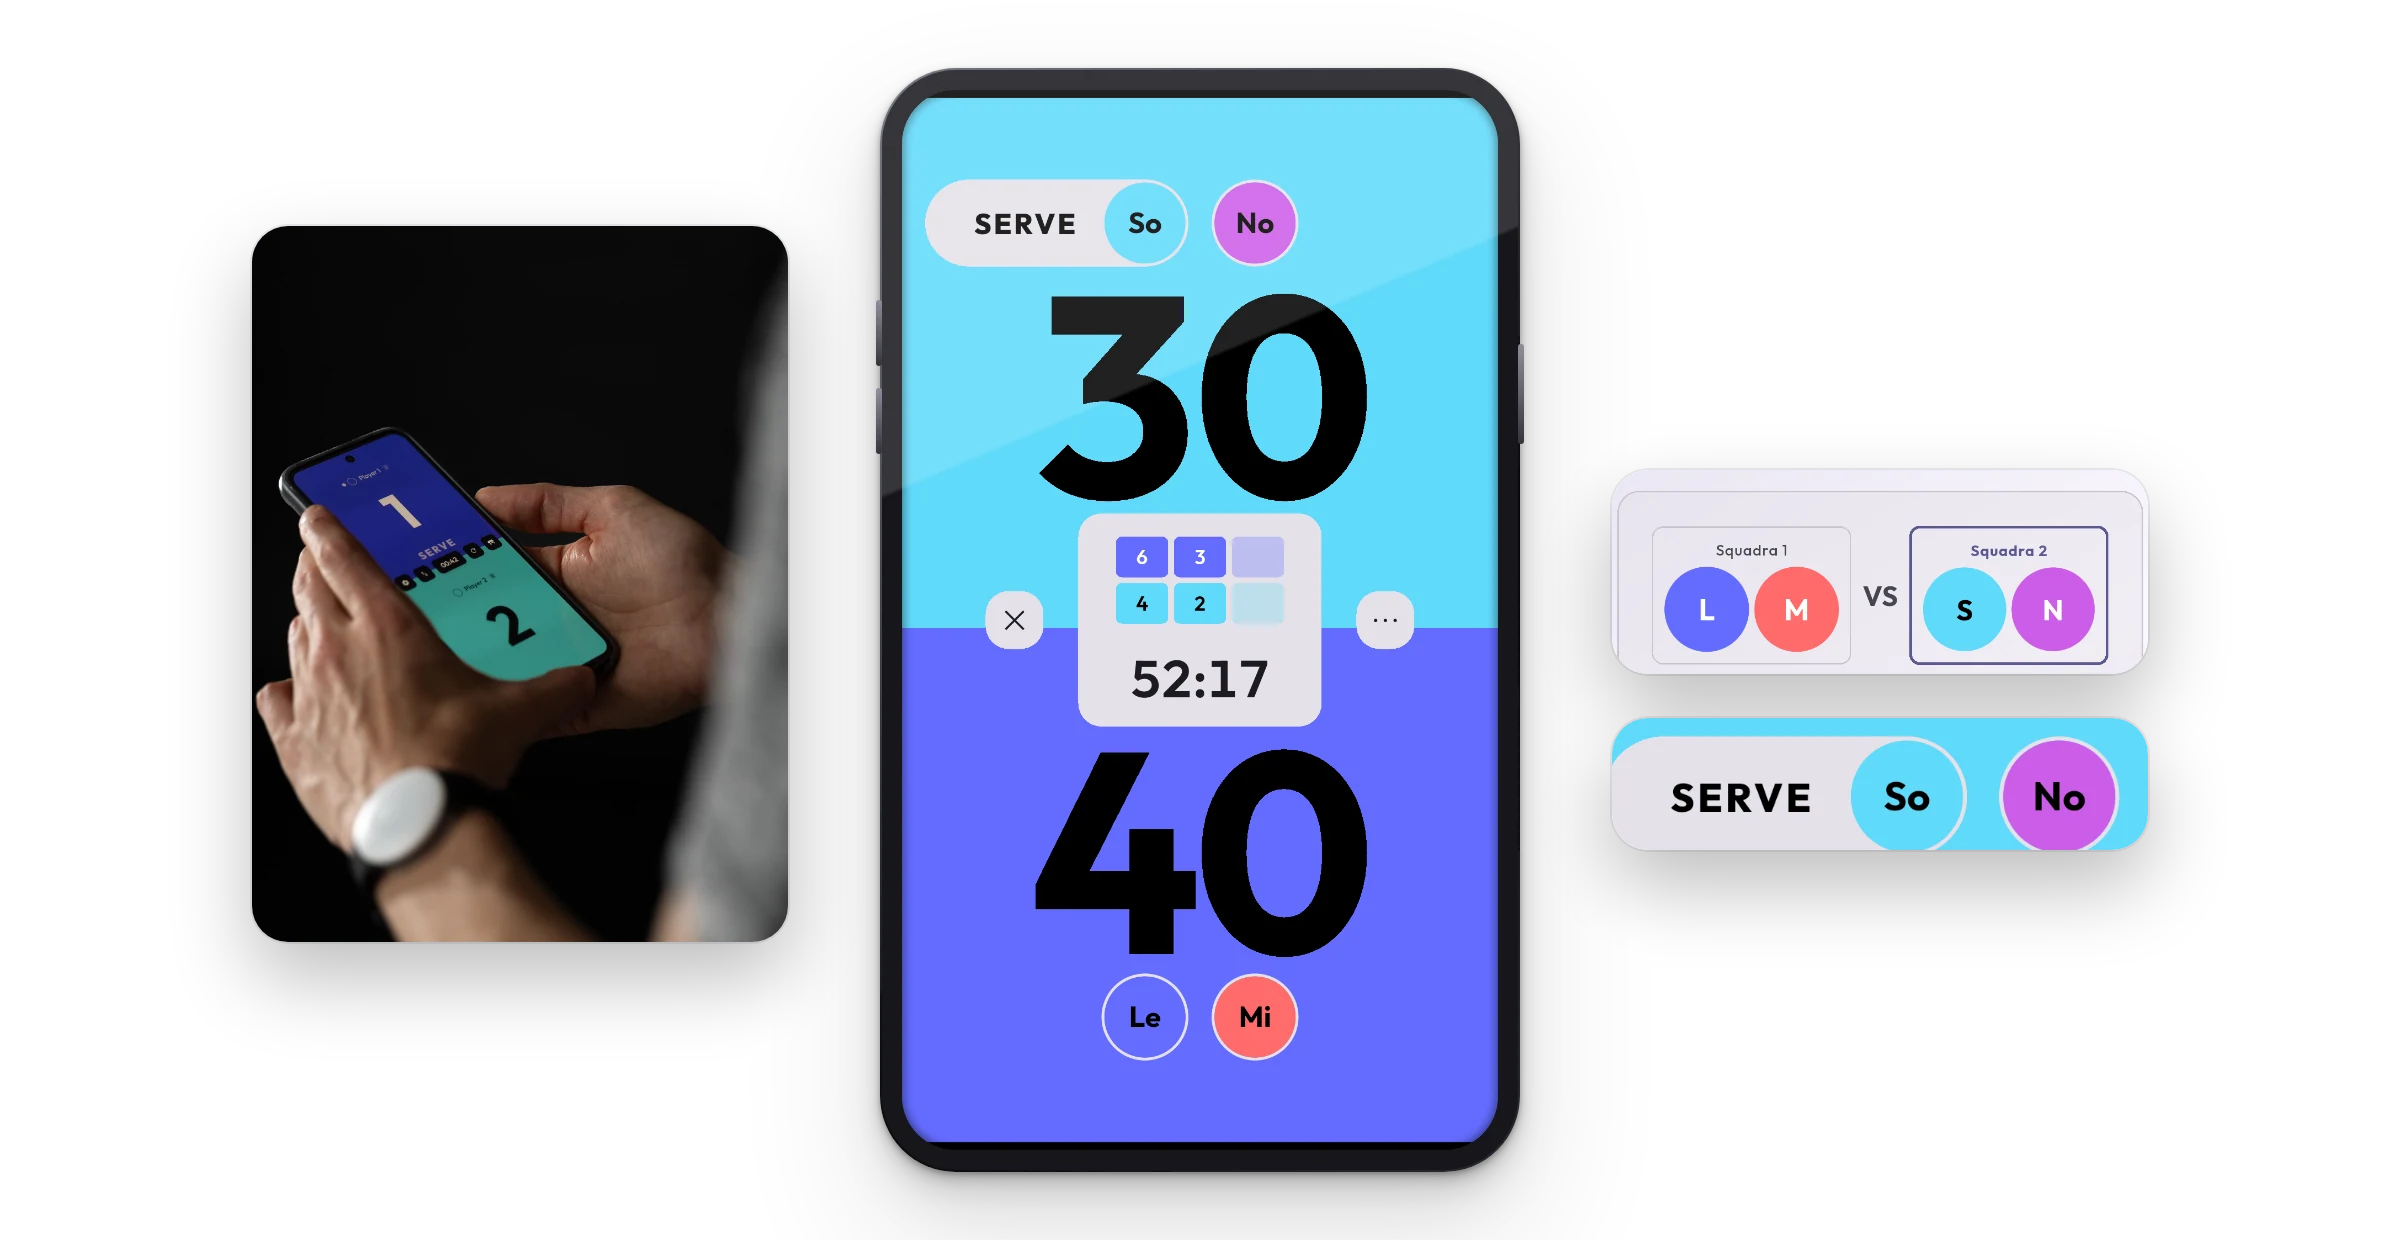
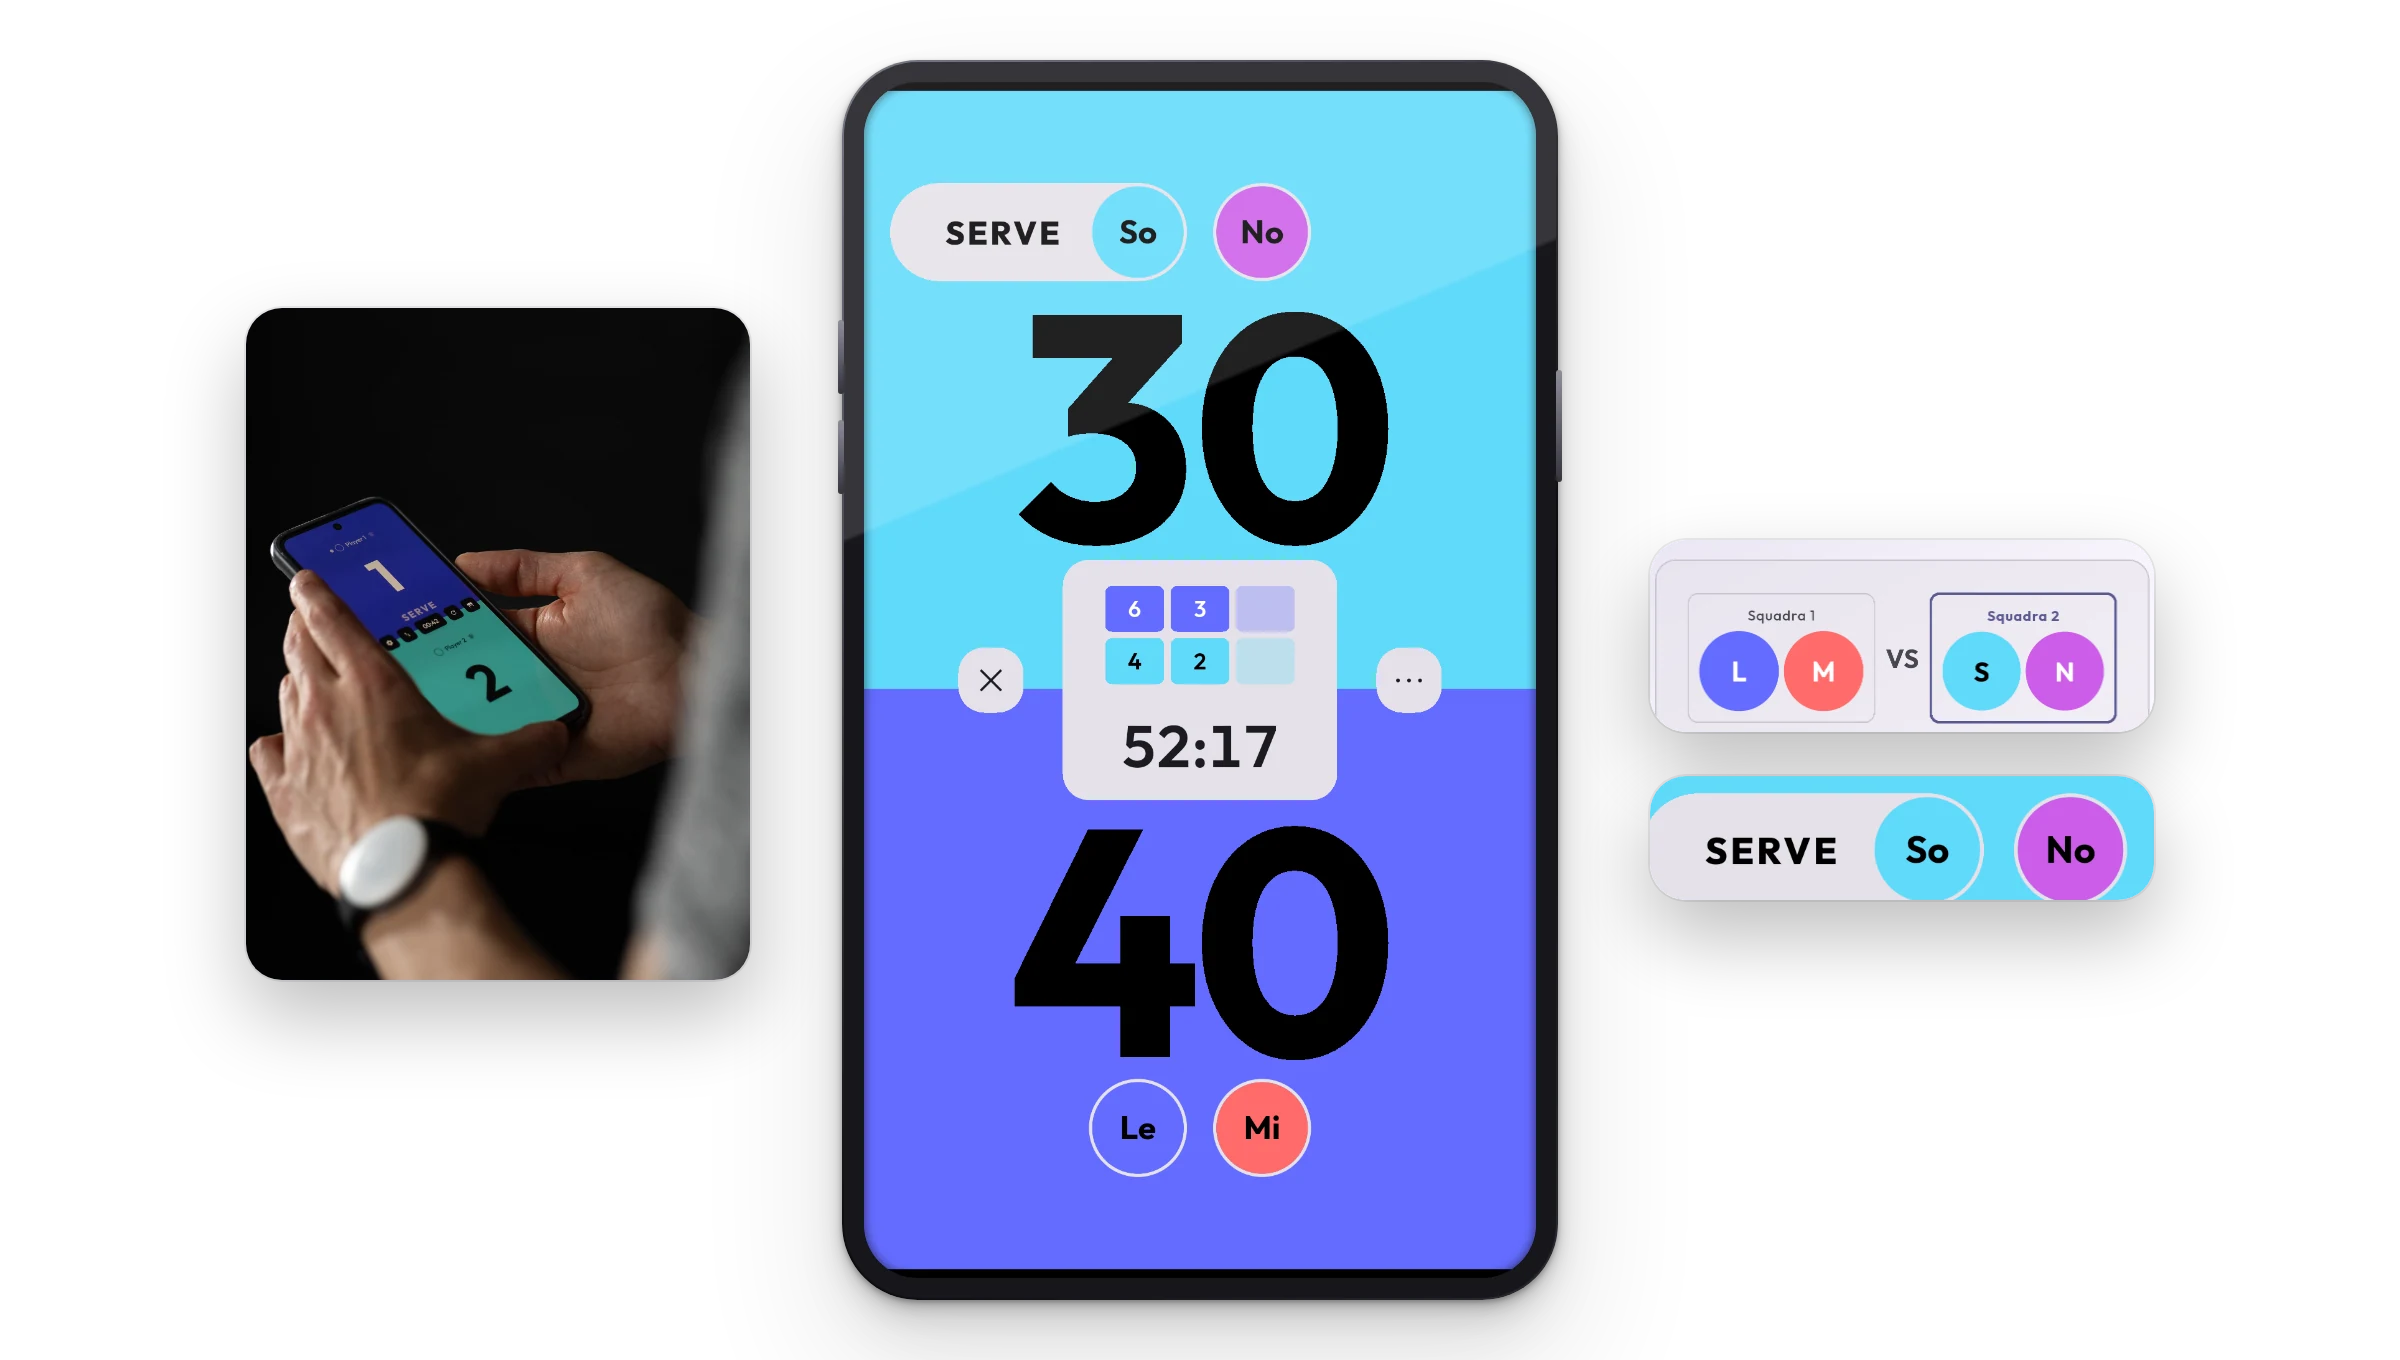
fix(app): show the sport grid for the sport step, enlarge the phones
"Sportart wählen" pointed at the match setup, which is the screen after
the sport is already chosen. The screen where you actually pick one is
the start page with its sport grid. Tournament had it right, the other
three modes did not.

Swipe now shows the same screen for "App starten" and "Sportart
wählen", because in this app they are the same screen: the start page
is the sport grid.

Both phones get bigger. The walkthrough phone goes from 300px to 400px
at desktop width, and the devices inside the composed section images
grow with the canvas, from 2400x1240 to 2400x1360.

Claude-Session: https://claude.ai/code/session_01DSQes332AvYSwypbHAUaki

Changed region(s): [[0.0938, 0.0306, 0.9062, 0.9806]]

diff --git a/src/i18n/de.ts b/src/i18n/de.ts
@@ -502,7 +502,7 @@ export const de: Translations = {
         ],
         images: [
           '/app/de/screens/home.webp',
-          '/app/de/screens/setup.webp',
+          '/app/de/screens/home.webp',
           '/app/de/screens/rules.webp',
           '/app/de/screens/scoreboard.webp',
         ],
@@ -534,7 +534,7 @@ export const de: Translations = {
         ],
         images: [
           '/app/de/screens/beacons.webp',
-          '/app/de/screens/setup.webp',
+          '/app/de/screens/home.webp',
           '/app/de/screens/rules.webp',
           '/app/de/screens/scoreboard.webp',
         ],
@@ -566,7 +566,7 @@ export const de: Translations = {
         ],
         images: [
           '/app/de/screens/beacons.webp',
-          '/app/de/screens/setup.webp',
+          '/app/de/screens/home.webp',
           '/app/de/screens/rules.webp',
           '/app/de/screens/scoreboard.webp',
         ],

diff --git a/src/i18n/en.ts b/src/i18n/en.ts
@@ -500,7 +500,7 @@ export const en: Translations = {
         ],
         images: [
           '/app/en/screens/home.webp',
-          '/app/en/screens/setup.webp',
+          '/app/en/screens/home.webp',
           '/app/en/screens/rules.webp',
           '/app/en/screens/scoreboard.webp',
         ],
@@ -532,7 +532,7 @@ export const en: Translations = {
         ],
         images: [
           '/app/en/screens/beacons.webp',
-          '/app/en/screens/setup.webp',
+          '/app/en/screens/home.webp',
           '/app/en/screens/rules.webp',
           '/app/en/screens/scoreboard.webp',
         ],
@@ -563,7 +563,7 @@ export const en: Translations = {
         ],
         images: [
           '/app/en/screens/beacons.webp',
-          '/app/en/screens/setup.webp',
+          '/app/en/screens/home.webp',
           '/app/en/screens/rules.webp',
           '/app/en/screens/scoreboard.webp',
         ],

diff --git a/src/i18n/fr.ts b/src/i18n/fr.ts
@@ -510,7 +510,7 @@ export const fr: Translations = {
         ],
         images: [
           '/app/fr/screens/home.webp',
-          '/app/fr/screens/setup.webp',
+          '/app/fr/screens/home.webp',
           '/app/fr/screens/rules.webp',
           '/app/fr/screens/scoreboard.webp',
         ],
@@ -542,7 +542,7 @@ export const fr: Translations = {
         ],
         images: [
           '/app/fr/screens/beacons.webp',
-          '/app/fr/screens/setup.webp',
+          '/app/fr/screens/home.webp',
           '/app/fr/screens/rules.webp',
           '/app/fr/screens/scoreboard.webp',
         ],
@@ -574,7 +574,7 @@ export const fr: Translations = {
         ],
         images: [
           '/app/fr/screens/beacons.webp',
-          '/app/fr/screens/setup.webp',
+          '/app/fr/screens/home.webp',
           '/app/fr/screens/rules.webp',
           '/app/fr/screens/scoreboard.webp',
         ],

diff --git a/src/i18n/it.ts b/src/i18n/it.ts
@@ -512,7 +512,7 @@ export const it: Translations = {
         ],
         images: [
           '/app/it/screens/home.webp',
-          '/app/it/screens/setup.webp',
+          '/app/it/screens/home.webp',
           '/app/it/screens/rules.webp',
           '/app/it/screens/scoreboard.webp',
         ],
@@ -545,7 +545,7 @@ export const it: Translations = {
         ],
         images: [
           '/app/it/screens/beacons.webp',
-          '/app/it/screens/setup.webp',
+          '/app/it/screens/home.webp',
           '/app/it/screens/rules.webp',
           '/app/it/screens/scoreboard.webp',
         ],
@@ -577,7 +577,7 @@ export const it: Translations = {
         ],
         images: [
           '/app/it/screens/beacons.webp',
-          '/app/it/screens/setup.webp',
+          '/app/it/screens/home.webp',
           '/app/it/screens/rules.webp',
           '/app/it/screens/scoreboard.webp',
         ],

diff --git a/src/components/GameModes.tsx b/src/components/GameModes.tsx
@@ -154,7 +154,7 @@ export function GameModes({ lang = 'de' }: { lang?: Locale }) {
               recessed by an inset ring, one hard-edged glass glint and
               the side buttons. The screenshots inside carry no frame of
               their own. */}
-          <div className="relative w-[260px] sm:w-[280px] md:w-[300px]">
+          <div className="relative w-[300px] sm:w-[350px] md:w-[400px]">
             <div className="relative rounded-[2.6rem] p-px bg-[linear-gradient(135deg,#7a7a86_0%,#0a0a0d_62%,#2b2b33_100%)] shadow-[0_1px_2px_rgba(0,0,0,0.18),0_4px_8px_rgba(0,0,0,0.13),0_16px_32px_rgba(0,0,0,0.09),0_32px_64px_16px_rgba(0,0,0,0.07)]">
               <div className="rounded-[2.55rem] bg-[#17171b] p-[7px]">
                 <div className="relative rounded-[2.15rem] overflow-hidden bg-zinc-900">

diff --git a/src/components/AppStorySections.tsx b/src/components/AppStorySections.tsx
@@ -129,7 +129,7 @@ export function AppStorySections({ lang = 'de' }: { lang?: Locale }) {
                   src={`/app/${lang}/${id}.webp`}
                   alt={item.imageAlt}
                   width={2400}
-                  height={1240}
+                  height={1360}
                   loading="lazy"
                   decoding="async"
                   className="w-full h-auto"
